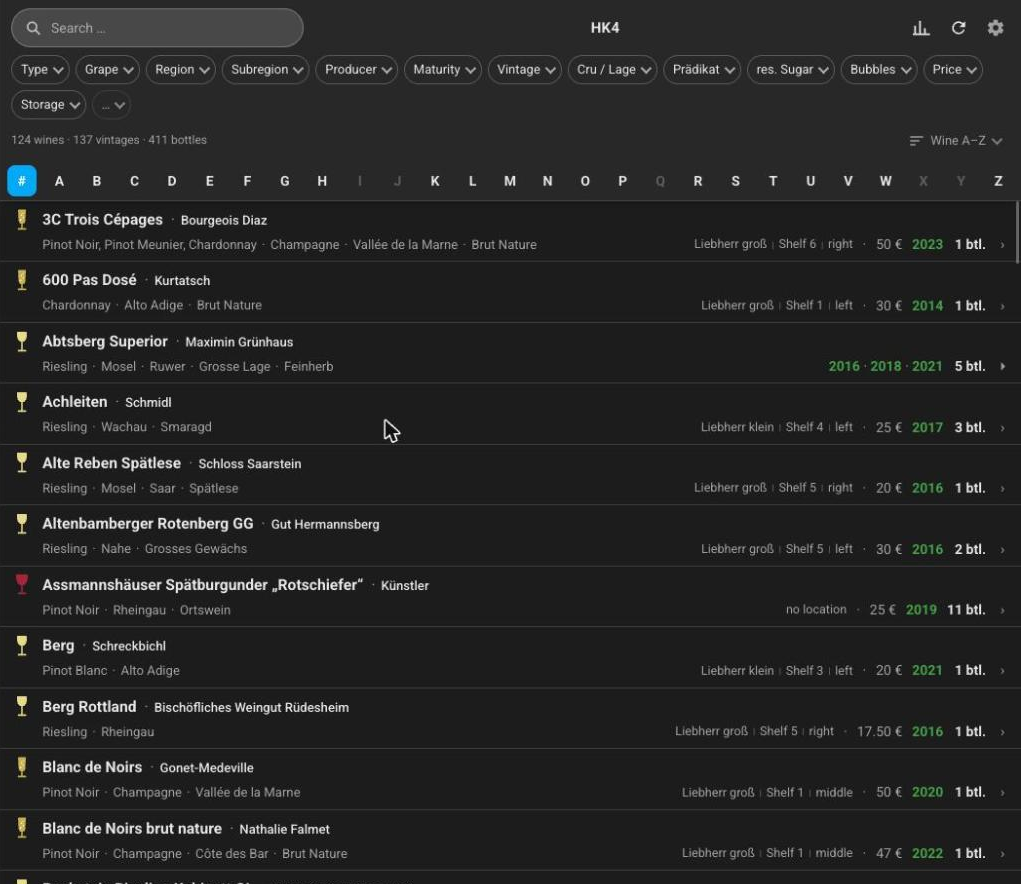
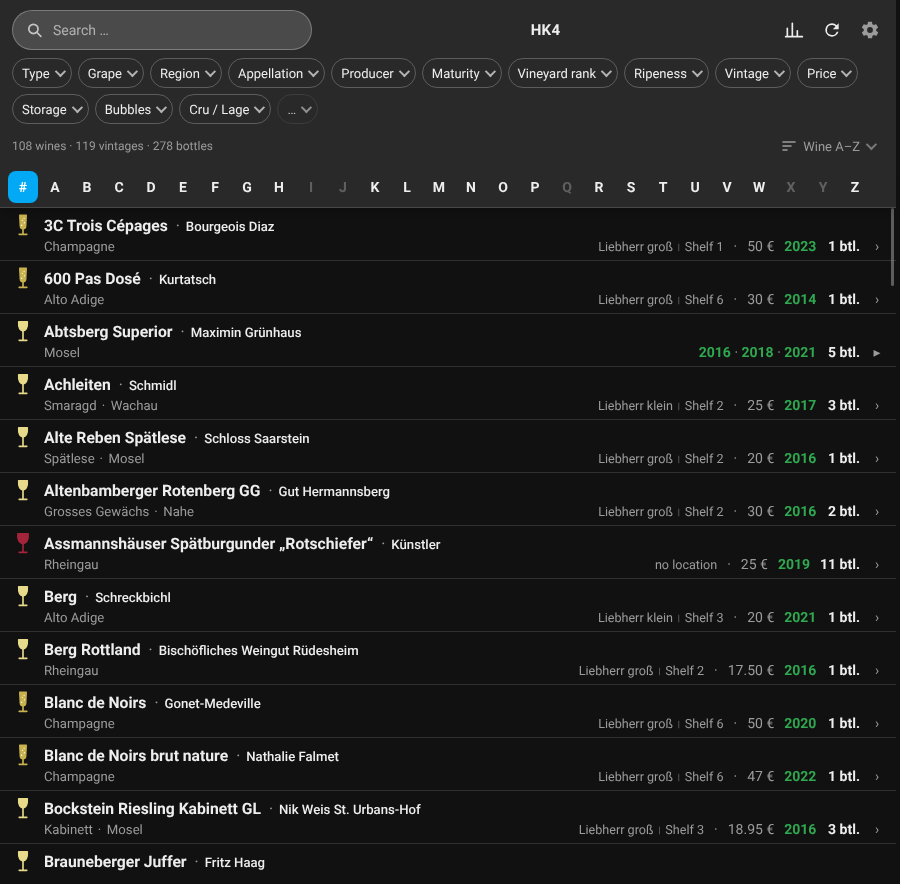
README: filter mode, three-state filters, rack view, statistics fix; new screenshots
Claude-Session: https://claude.ai/code/session_019auwNqcqKEcj63HA2hK6vA

diff --git a/README.md b/README.md
@@ -7,18 +7,18 @@ browse your whole cellar at a glance, filter it, see where each bottle lies and 
 > setup. It does what it says there, but if that is not your thing, please don't install it. Issues and ideas are welcome.
 
 <p align="center">
-  <img src="https://raw.githubusercontent.com/d3rb3rt/ha-cellarion-cellar-card/main/docs/list.png?v=1.0.0" alt="Inventory grouped by wine" width="820"><br>
+  <img src="https://raw.githubusercontent.com/d3rb3rt/ha-cellarion-cellar-card/main/docs/list.png?v=2.4.0" alt="Inventory grouped by wine" width="820"><br>
   <em>The inventory, grouped by wine, with search, filters and an A–Z index.</em>
 </p>
 
 <p align="center">
-  <img src="https://raw.githubusercontent.com/d3rb3rt/ha-cellarion-cellar-card/main/docs/filters.png?v=1.0.0" alt="Filter dropdown with counts" width="820"><br>
+  <img src="https://raw.githubusercontent.com/d3rb3rt/ha-cellarion-cellar-card/main/docs/filters.png?v=2.4.0" alt="Filter dropdown with counts" width="820"><br>
   <em>Every filter shows how many wines, vintages and bottles match.</em>
 </p>
 
 <p align="center">
   <img src="https://raw.githubusercontent.com/d3rb3rt/ha-cellarion-cellar-card/main/docs/detail.png?v=1.0.0" alt="Bottle details with label image" width="380">
-  <img src="https://raw.githubusercontent.com/d3rb3rt/ha-cellarion-cellar-card/main/docs/phone.png?v=1.0.0" alt="Phone layout" width="300"><br>
+  <img src="https://raw.githubusercontent.com/d3rb3rt/ha-cellarion-cellar-card/main/docs/phone.png?v=2.4.0" alt="Phone layout" width="300"><br>
   <em>Bottle details with label image, drink window, profile and storage places · the same card on a phone.</em>
 </p>
 
@@ -30,10 +30,13 @@ browse your whole cellar at a glance, filter it, see where each bottle lies and 
   cellars* together with a cellar tag on each place). The choice is remembered per device. Settings and filters are shared by all cellars.
 - **Filters** with live counts: type, grape, region, appellation, producer, maturity, vintage, price, storage rack and
   **every personal data field you keep in Cellarion** (they appear as filters automatically). Choose which filters are
-  shown and in which order.
+  shown, in which order, and which stay behind a "..." button. A **filter mode** (Default, OR, NOT) lets you pick several
+  values in every filter and combine them the way you need.
 - **Bottle details**: your data (price, purchase, merchant, note, personal fields), the register profile (body, acidity,
   flavours, food pairings, description), a drink-window bar with today's position, the label image and the storage places
   with a count per place.
+- **Rack view**: a small picture of the rack shows where the bottles lie; tap it for the full rack with every shelf and
+  slot, and take a bottle out right from there (see below).
 - **Take out** from a fixed bar in the details: say why (drunk, gifted, sold, other), confirm, and Cellarion marks the
   bottle as consumed. The card then offers to take out another one of the same vintage.
 - **Storage display per rack**: count shelves from the top or the bottom, show the position as left/middle/right, as a slot
@@ -97,7 +100,18 @@ Update automations and scripts that call the old services or the old sensor by h
 
 - **Search** looks in name, producer, vintage, region, country, appellation, classification, grapes, storage place, type
   and your personal fields. Several words must all match.
-- **Filters**: tap a filter chip to pick a value. The counts in the dropdown show wines, vintages and bottles.
+- **Filters**: tap a filter chip to pick a value. The counts in the dropdown show wines, vintages and bottles. A filter
+  with nothing to choose right now stays in place, greyed out. The *Selected* line at the top of a pick list has an x to
+  clear that filter. Filters you moved behind the **...** button are listed there. The classification is split into
+  one filter per kind (vineyard rank, ripeness, ageing, other); for grapes an **&** button adds a further grape, and the
+  wine must then have all chosen grapes.
+- **Filter mode**: the dashed pulldown at the end of the filter row switches how filters combine.
+  *Default* picks one value per filter and all filters must match.
+  *OR* allows several values everywhere and shows every wine matching **any** chosen value, for example red **or**
+  white **or** Kabinett (chosen filters turn green, with "or" between them).
+  *NOT* allows several values everywhere and hides every wine matching **any** chosen value, for example neither
+  white nor rosé (chosen filters turn red, with "not" before them); the other filters then only offer what is left.
+  Going back to *Default* keeps one value per filter.
 - **A–Z bar** jumps to a letter and follows the current sorting. Sorted by producer, the letter is the producer's sort word
   (see below).
 - A wine with several vintages shows them when you tap the row; tap a vintage for the details.
@@ -106,6 +120,24 @@ Update automations and scripts that call the old services or the old sensor by h
   red = past the window. The same colours are used in the drink-window bar in the details.
 - **Details**: *Take out …* asks for the reason and confirms before anything is written. *Edit in Cellarion* opens the
   bottle in the Cellarion app.
+
+## Rack view
+
+The details of a bottle show a small picture of the rack it lies in. Tap it (or the rack button in the bar) for the full
+view: every shelf and slot of the rack, counted the way you set under *Storage locations*.
+
+- **Solid** = the bottle you opened, **tinted** = other bottles of the same vintage, **filled** = any other bottle.
+- Tap a tinted or solid slot to take that bottle out.
+- If the wine lies in several racks, the arrows (or a swipe on the phone) move to the previous or next of those racks.
+- Hover over a slot to see which wine lies there.
+
+The rack picture needs the rack layout from Cellarion; racks without a layout show only the text of the place.
+On phones the list shows just the rack name as the storage place; the exact place is in the details and in the rack view.
+
+<p align="center">
+  <img src="https://raw.githubusercontent.com/d3rb3rt/ha-cellarion-cellar-card/main/docs/rack.png?v=2.4.0" alt="Rack view" width="380"><br>
+  <em>The rack view: this bottle solid, other bottles of the vintage tinted.</em>
+</p>
 
 ## Statistics
 
@@ -116,7 +148,8 @@ cellar value, bottles per type and the top country, producer, region and grape.
   by it, for example only the sparkling wines.
 - Tap a **tile** (wines, countries, producers, oldest vintage, cellar value, top country, …) to see that breakdown in more
   detail, for example the producers with their bottle counts. Tap an entry there to filter the list by it.
-- The overview counts everything in the cellar, including items from the *Other* category that are hidden from the list.
+- The overview counts what the list shows: when *Other* items (not wine) are hidden from the list (see *Show Other in the
+  list* under Settings), the overview leaves them out too, so the numbers match the list.
 
 <p align="center">
   <img src="https://raw.githubusercontent.com/d3rb3rt/ha-cellarion-cellar-card/main/docs/statistics.png?v=1.0.0" alt="Statistics overview" width="340">
@@ -137,7 +170,9 @@ Assistant) or to **this device only** (stored in the browser).
 
 **Filters**
 - *When the page reloads*: keep the last filters and sorting, or start fresh.
-- *Filters*: which filters are shown and in which order. Drag to reorder; your own Cellarion data fields appear here too.
+- *Filters*: every filter has a switch with three states: **On** (in the filter row), **...** (behind the "..." button)
+  or **Off** (not offered at all). Drag to reorder; your own Cellarion data fields appear here too. The filter mode
+  pulldown is in the list as well; it always sits at the end of the row, before "...".
 
 **List**
 - *Info in the list*: which facts appear under each wine name, and in which order.
